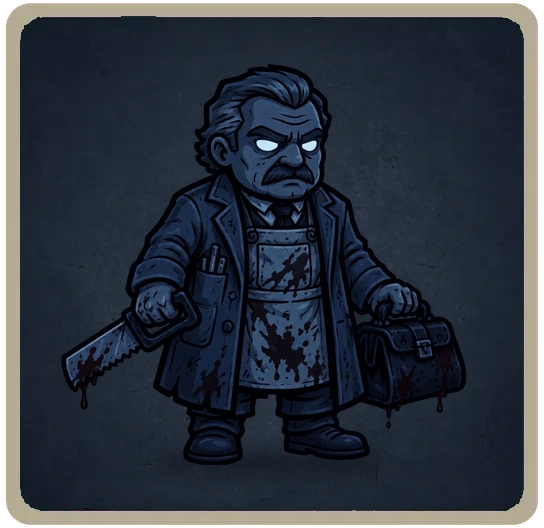
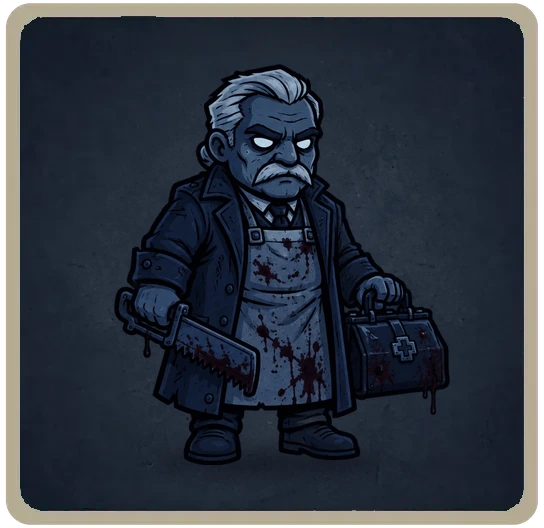
Publish c9fdb82: new Coroner picture

Changed region(s): [[0.0938, 0.1212, 0.875, 0.8788]]

diff --git a/sw.js b/sw.js
@@ -1,7 +1,7 @@
 // Lanterns & Lies service worker (12 Nov): fast reopening and push notifications.
 // Built files have hashed names, so they never change: cache first. Pictures and fonts keep their names, so they
 // are served from the cache at once and refreshed in the background. The page itself always tries the network first.
-const CACHE = "lnl-v3"; // v3: logo lantern on the loading screen (13 Nov)
+const CACHE = "lnl-v4"; // v4: new Coroner picture (13 Nov)
 const SCOPE = self.registration.scope;
 
 self.addEventListener("install", () => self.skipWaiting());
